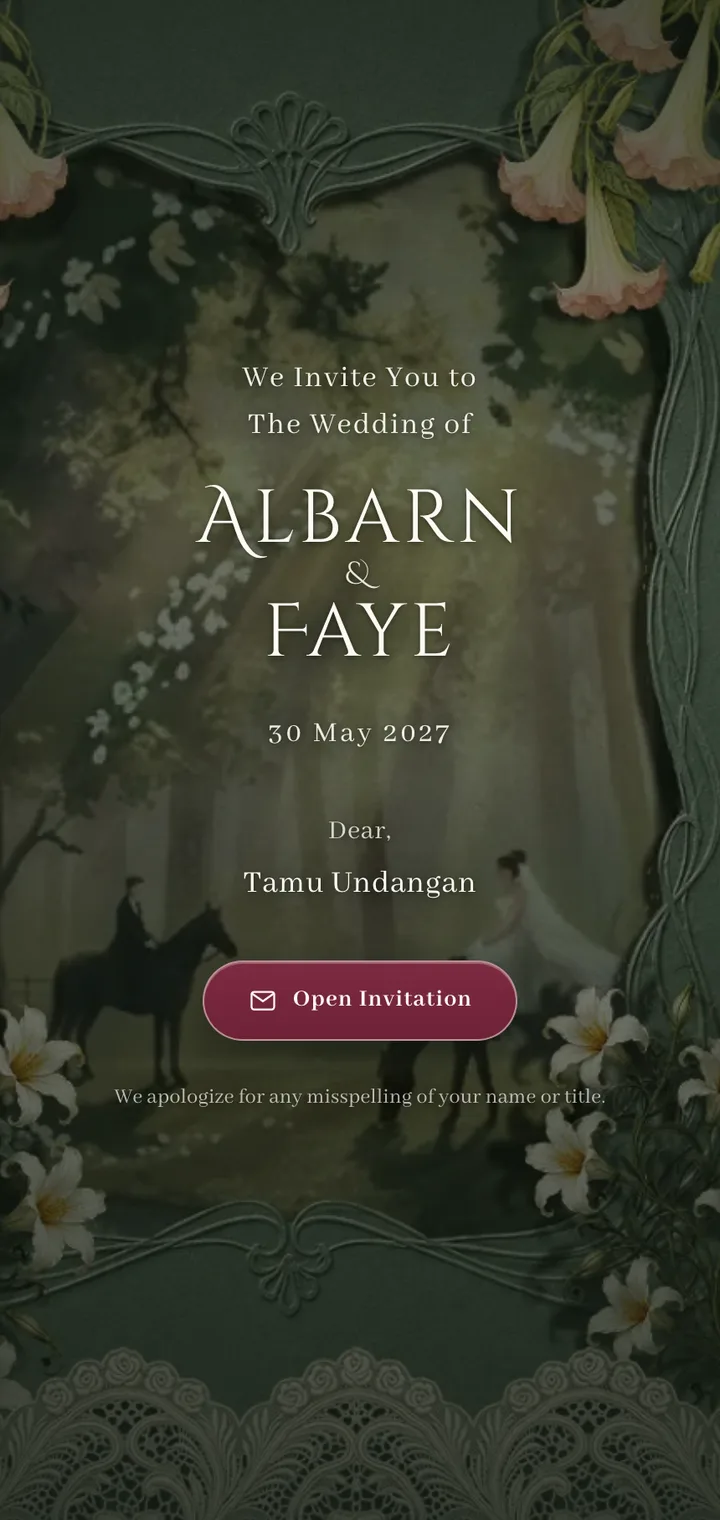
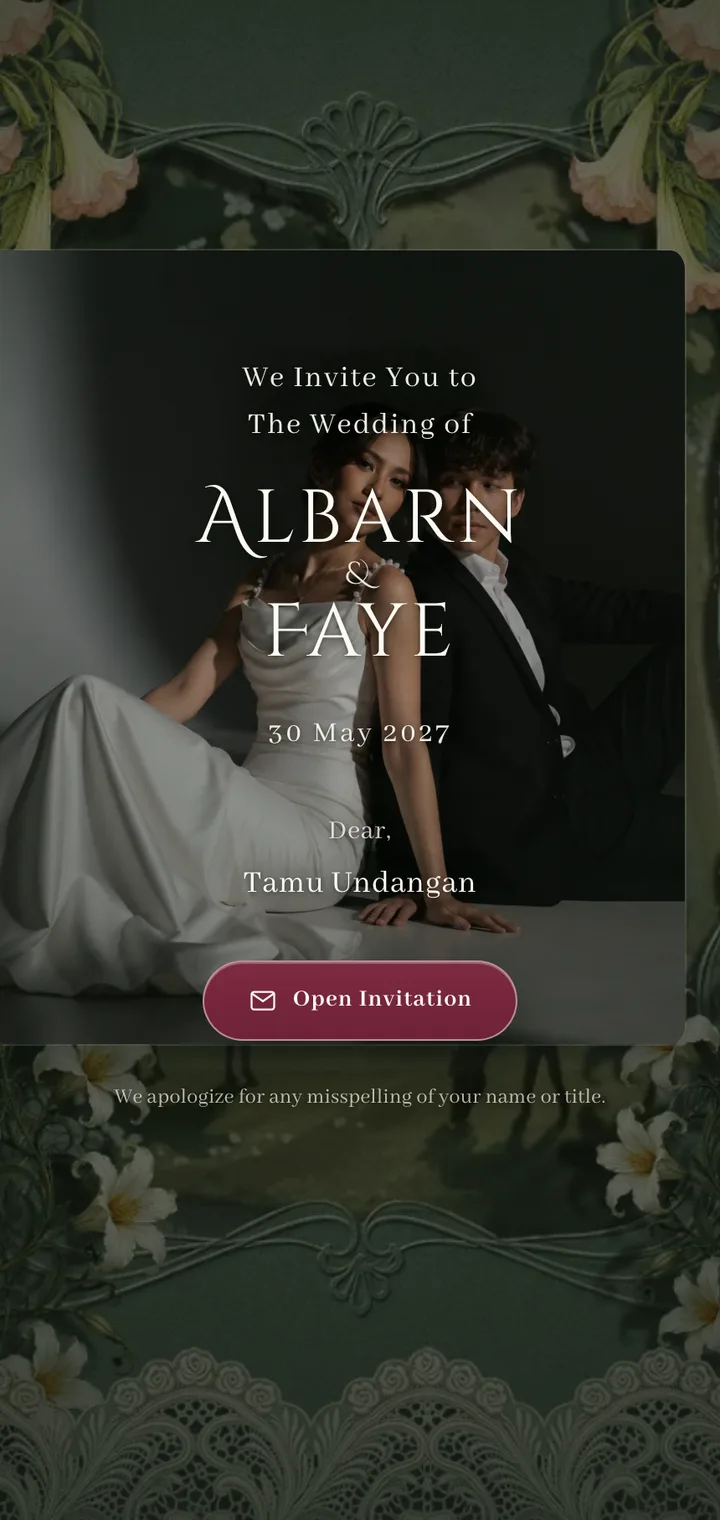
feat(emerald-heirloom): seat the cover photo inside the painted frame
The cover keeps the reference's carved frame and paper; the couple's
cover_photos[0] is placed in the frame's opening (34% / 17.4% / 29% x 50.8%
of a 1500x938 stage), above the lilies and clear of the fans, so the painted
meadow stays as the mat. The stage is scaled to cover both the handset screen
and the desktop panel, so the window cannot drift from the opening. Empty slot
keeps the painted garden.

diff --git a/src/components/templates/emerald-heirloom/emerald-heirloom.css b/src/components/templates/emerald-heirloom/emerald-heirloom.css
@@ -92,13 +92,45 @@ body.eh-locked {
   transition: opacity 0.9s ease, visibility 0.9s ease;
 }
 
-.eh-gate__art {
+/* The 1500×938 stage is scaled to cover the gate (and, on desktop, the left
+   panel). Everything inside it is expressed in the artwork's own percentages,
+   so the photo window cannot drift from the carved opening. */
+.eh-gate__stage {
   position: absolute;
   inset: 0;
+  display: grid;
+  place-items: center;
+  overflow: hidden;
+}
+
+.eh-gate__plate {
+  position: relative;
+  width: max(100%, calc(100svh * 1.5991));
+  aspect-ratio: 1500 / 938;
+  flex: none;
+}
+
+.eh-gate__art {
   width: 100%;
   height: 100%;
+  object-fit: fill;
+}
+
+/* Window measured inside the carved frame, above the lilies and clear of the
+   fans: the painted meadow below stays as the mat. */
+.eh-gate__photo {
+  position: absolute;
+  left: 34%;
+  top: 17.4%;
+  width: 29%;
+  height: 50.8%;
   object-fit: cover;
-  object-position: 54% center;
+  object-position: center 30%;
+  border-radius: 2% / 2.4%;
+  box-shadow:
+    0 0 0 1px rgba(255, 250, 243, 0.32),
+    0 18px 44px rgba(10, 16, 10, 0.5),
+    inset 0 0 60px rgba(10, 16, 10, 0.35);
 }
 
 .eh-gate__veil {
@@ -2157,11 +2189,6 @@ body.eh-locked {
     opacity: 1;
     visibility: visible;
     pointer-events: none;
-  }
-
-  .eh-root.is-open .eh-gate__art {
-    object-position: 34% center;
-    scale: 1.04;
   }
 
   .eh-root.is-open .eh-gate__veil {

diff --git a/src/components/templates/emerald-heirloom/index.tsx b/src/components/templates/emerald-heirloom/index.tsx
@@ -571,9 +571,17 @@ export default function EmeraldHeirloom(profile: TemplateProps) {
       {trackUrl && <audio ref={audioRef} src={trackUrl} loop preload="metadata" data-warm-audio="" />}
 
       {/* Cover gate. On desktop it stays as the fixed art panel after opening —
-          the reference's split layout — and the invitation scrolls beside it. */}
+          the reference's split layout — and the invitation scrolls beside it.
+          The stage keeps the cover art's 1500×938 geometry, so the couple's
+          photograph can be seated inside the carved frame's opening and stay
+          aligned at every viewport width. */}
       <div className="eh-gate">
-        <img className="eh-gate__art" src={EH_ASSETS.cover} alt="" draggable={false} />
+        <div className="eh-gate__stage">
+          <div className="eh-gate__plate">
+            <img className="eh-gate__art" src={EH_ASSETS.cover} alt="" draggable={false} />
+            {stagePhoto && <img className="eh-gate__photo" src={stagePhoto} alt="" draggable={false} />}
+          </div>
+        </div>
         <div className="eh-gate__veil" aria-hidden="true" />
         <div className="eh-gate__copy">
           <p className="eh-gate__kicker">

diff --git a/src/components/templates/index.ts b/src/components/templates/index.ts
@@ -1956,11 +1956,11 @@ export const TEMPLATE_CONFIGS: TemplateConfig[] = [
       motion: { enabled: true, duration: 0.9, stagger: 0.06 },
     },
     content: {
-      // The cover and the desktop art panel are the design's own painted
-      // garden — a cover-photo slot would be an upload the template never
-      // renders. Portraits come from the mempelai fields; the gallery and the
-      // milestones carry their own photos.
-      cover_slots: 0,
+      // The cover photograph is seated inside the painted frame's opening (the
+      // desktop art panel shows the same composition). Empty slot ⇒ the
+      // reference's painted garden stays in the frame.
+      cover_slots: 1,
+      cover_slot_labels: ["Foto Sampul"],
       groom_photo: "single",
       bride_photo: "single",
       person_photos: true,

diff --git a/docs/REA_EMERALD_HEIRLOOM.md b/docs/REA_EMERALD_HEIRLOOM.md
@@ -9,7 +9,7 @@ composition as one responsive component.
 
 - Component: `src/components/templates/emerald-heirloom/`
 - Assets: `public/templates/emerald-heirloom/`
-- Registry: `TEMPLATE_MAP` + `TEMPLATE_CONFIGS` (`cover_slots: 0`)
+- Registry: `TEMPLATE_MAP` + `TEMPLATE_CONFIGS` (`cover_slots: 1`)
 - Migration: `supabase/migrations/20261118000001_emerald_heirloom.sql`
 
 ---
@@ -24,7 +24,7 @@ together.
 
 | # | Section | Renders from | Gate + toggle | Count / variant branch | Copy source | Motion |
 |---|---|---|---|---|---|---|
-| 1 | Cover (gate) | painted cover plate, `groom_name`, `bride_name`, `estimated_wedding_date`, `guest_name` | always | 1 or 2 names; empty name falls back to the full name | `cover_kicker`, `open_button`, `cover_apology`, `cover_guest_label` | gate slides/fades on open; no reveal on the gate |
+| 1 | Cover (gate) | painted cover plate, `cover_photos[0]` seated in its carved frame, `groom_name`, `bride_name`, `estimated_wedding_date`, `guest_name` | always | 1 or 2 names; empty name falls back to the full name; no photo ⇒ the painted garden stays in the frame | `cover_kicker`, `open_button`, `cover_apology`, `cover_guest_label` | gate slides/fades on open; no reveal on the gate |
 | 2 | Welcome | `groom_name`/`bride_name`, date, welcome frame + garden scene | always | same 1/2-name branch | `welcome_invite` | 2 trumpets + 2 fans + lilies + swan (animated WebP), reveal `up` |
 | 3 | Kalimat pembuka + kutipan | `opening_title`, `opening_description`, `quote_text`, `quote_source` | always (template has an opening block) | quote hidden when empty; card grows with copy | profile columns + `opening_kicker` | fan + lily spray + swan, reveal `up` |
 | 4 | Mempelai | `groom_full_name`, `bride_full_name`, portraits, `groom_parents`, `bride_parents`, Instagram | `person_photos !== false` | 2 portraits; 1 photo ⇒ that person's card only; name wraps | `mempelai_title`, `mempelai_kicker`, `profiles_intro`, `parents_label` | 3 swans, 2 fans, 2 trumpets, 2 lilies, reveal `up` 0.1s step |
@@ -188,8 +188,8 @@ Reported per playbook §0.5 rule 2 before shipping:
 
 ## 6. Editor / ops wiring
 
-- Content spec: `cover_slots: 0` (the cover and the desktop panel are the
-  design's painted plate — no cover-photo field), `person_photos: true`,
+- Content spec: `cover_slots: 1` ("Foto Sampul" — seated inside the carved
+  frame; the desktop panel shows the same composition), `person_photos: true`,
   `story_photo: true`,
   `initials: false`, sections opening/quote/countdown/inviting/video/story/
   gallery/gift/dresscode/livestream/rundown on, contacts off.
@@ -235,9 +235,13 @@ Reported per playbook §0.5 rule 2 before shipping:
   Decorative title case). Cinzel has no lowercase — every string renders as
   small caps — which read as shouted over a photograph; the body serif keeps
   the invitation voice and the reference's size.
-- **The cover is the reference's painted plate** (no cover-photo slot): the
-  reference's cover is one flattened artwork, and a photo would break its lace
-  frame. The guest greeting sits directly above the play button, not at the top.
+- **The cover photo sits inside the painted frame.** The reference's cover is
+  one flattened artwork with a garden in the carved opening. The gate keeps a
+  1500×938 stage (scaled to cover the screen or the desktop panel) and seats
+  `cover_photos[0]` at `34% / 17.4% / 29% × 50.8%` of that stage, above the
+  lilies and clear of the fans, so the painting's paper and ornament stay as
+  the frame at every width. No photo ⇒ the garden remains in the frame.
+- The guest greeting sits directly above the Open Invitation button.
 - **No opening film.** This reference has no opening video; music starts on the
   gate's open gesture (`preload="metadata"` + `data-warm-audio`, per the
   invitation performance invariant).
